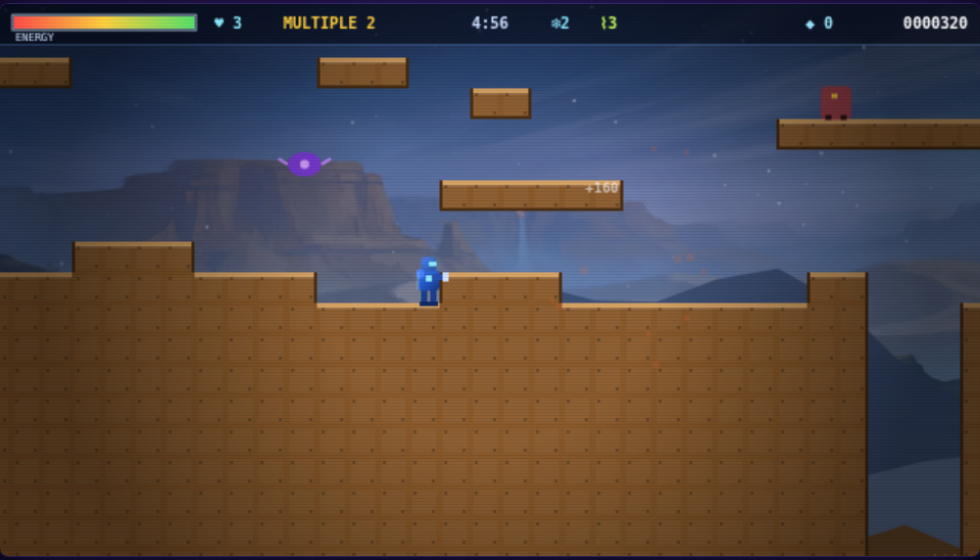
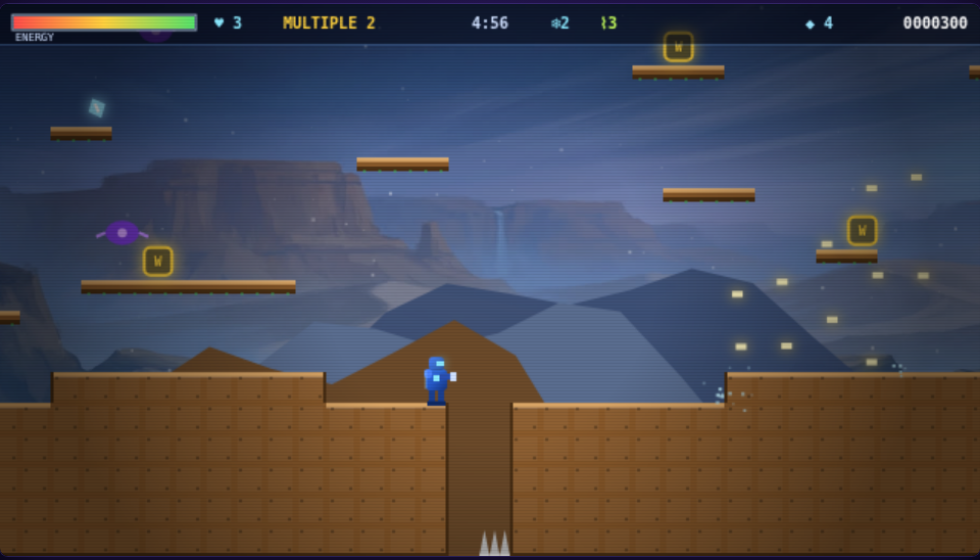
Turrican II v0.2.0: traversable-level generator, one-way platforms, step-up, playthrough bot

diff --git a/2026-07-06/turrican-2/assets/data.js b/2026-07-06/turrican-2/assets/data.js
@@ -165,60 +165,99 @@
     const set = (x, y, v) => { if (x >= 0 && x < cols && y >= 0 && y < rows) tiles[idx(x, y)] = v; };
     const get = (x, y) => (x < 0 || x >= cols || y < 0 || y >= rows) ? T.SOLID : tiles[idx(x, y)];
 
-    // rolling ground height per column
-    let h = g.floor;
-    const groundH = new Array(cols);
-    const pitCols = new Set();
-    // choose pit locations
-    for (let p = 0; p < g.pits; p++) {
-      const start = 12 + Math.floor(rnd() * (cols - 24));
-      const width = 2 + Math.floor(rnd() * 4);
-      for (let w = 0; w < width; w++) pitCols.add(start + w);
-    }
+    // ---- GUARANTEED-TRAVERSABLE terrain --------------------------------
+    // Interior platform worlds get a thin ceiling; we always keep >=6 tiles of
+    // headroom above the ground so the critical path is walkable + jumpable
+    // WITHOUT needing morph (morph is reserved for optional secret routes).
+    const ceilH = (world.type === 'platform' && worldIndex >= 1) ? 1 : 0;
+    for (let x = 0; x < cols; x++) for (let y = 0; y < ceilH; y++) set(x, y, T.SOLID);
+
+    // Keep ground in the lower third so the upper zone is reserved for
+    // floating platforms — they then never pinch the walkable ground path.
+    const maxTop = rows - 2;           // lowest ground (always >=1 tile of floor)
+    const minTop = Math.max(ceilH + 5, rows - 9); // highest the ground may rise
+    const clampTop = (v) => Math.max(minTop, Math.min(maxTop, v));
+
+    // pass 1: ground top as flat runs joined by SINGLE-tile steps only, so every
+    // adjacent column differs by <=1 tile — always jumpable, never a cliff.
+    const groundTop = new Array(cols);
+    let top = clampTop(g.floor);
+    let run = 0;
     for (let x = 0; x < cols; x++) {
-      if (x % 4 === 0) h += Math.round((rnd() - 0.5) * g.roughness);
-      h = Math.max(9, Math.min(rows - 3, h));
-      groundH[x] = h;
-      const isPit = pitCols.has(x) && x > 8 && x < cols - 8;
-      if (!isPit) {
-        for (let y = h; y < rows; y++) set(x, y, T.SOLID);
-      } else {
-        // spikes at the bottom of some pits
-        if (rnd() < 0.5) set(x, rows - 1, T.SPIKE);
+      if (run <= 0) {
+        run = 6 + Math.floor(rnd() * 8);                 // long flat run of 6-13 cols
+        const r = rnd();
+        top = clampTop(top + (r < 0.35 ? -1 : r < 0.7 ? 1 : 0)); // step at most +-1
       }
+      groundTop[x] = top; run--;
+    }
+    // flat safe zones so spawn + exit are always clean, level ground
+    for (let x = 0; x <= 6; x++) groundTop[x] = groundTop[6];
+    for (let x = cols - 8; x < cols; x++) groundTop[x] = groundTop[cols - 9];
+
+    // pass 2: carve jumpable pits (width 2-3) ONLY where both lips are already
+    // level (<=1 tile apart). No height edits -> no manufactured cliffs.
+    // Carve pits ONLY inside genuinely flat stretches: require 3 equal-height
+    // columns of clean approach + landing on each side, so there are never
+    // adjacent tall walls or 1-wide ledges to fall into.
+    const isPit = new Array(cols).fill(false);
+    let placed = 0, guard = 0;
+    while (placed < g.pits && guard++ < g.pits * 30) {
+      const w = 2 + Math.floor(rnd() * 2);               // 2..3 tiles
+      const sx = 16 + Math.floor(rnd() * (cols - 40));
+      const h0 = groundTop[sx - 1];
+      let ok = sx > 10 && sx + w < cols - 10;
+      for (let k = -3; k < w + 3 && ok; k++) {
+        const c = sx + k;
+        if (c < 0 || c >= cols || isPit[c]) { ok = false; break; }
+        if ((k < 0 || k >= w) && groundTop[c] !== h0) ok = false; // lips must be flat & equal
+      }
+      if (!ok) continue;
+      for (let k = 0; k < w; k++) isPit[sx + k] = true;
+      placed++;
     }
 
-    // ceiling in interior worlds
-    if (world.type === 'platform' && worldIndex >= 1) {
-      for (let x = 0; x < cols; x++) {
-        const ch = 1 + (rnd() < 0.3 ? 1 : 0);
-        for (let y = 0; y < ch; y++) set(x, y, T.SOLID);
-      }
+    // build ground tiles
+    for (let x = 0; x < cols; x++) {
+      if (isPit[x]) { if (rnd() < 0.5) set(x, rows - 1, T.SPIKE); continue; }
+      for (let y = groundTop[x]; y < rows; y++) set(x, y, T.SOLID);
     }
 
-    // floating platforms
+    const surfaceTop = (x) => {
+      x = Math.max(0, Math.min(cols - 1, x));
+      return isPit[x] ? rows : groundTop[x];
+    };
+
+    // floating platforms: 1 tall, kept well above the ground path (never block
+    // ground traversal) — they're optional upper routes / gem shelves
+    // one-way floating platforms — stored SEPARATELY (not solid tiles). The
+    // player lands on top but jumps/moves pass through, so they never bonk a
+    // ground jump (which used to drop the player into pits).
     const platforms = [];
     for (let p = 0; p < g.plats; p++) {
       const px = 10 + Math.floor(rnd() * (cols - 20));
-      const py = 5 + Math.floor(rnd() * (rows - 10));
-      const pw = 2 + Math.floor(rnd() * 5);
-      // avoid overwriting the ground column tops
-      let ok = true;
-      for (let w = 0; w < pw; w++) if (py >= groundH[Math.min(cols - 1, px + w)] - 1) ok = false;
-      if (!ok) continue;
-      for (let w = 0; w < pw; w++) set(px + w, py, T.SOLID);
+      const pw = 2 + Math.floor(rnd() * 4);
+      let gTop = rows;
+      for (let w = 0; w < pw; w++) gTop = Math.min(gTop, groundTop[Math.min(cols - 1, px + w)]);
+      const hiLimit = ceilH + 2;
+      const loLimit = gTop - 3;                          // reachable, above the ground
+      if (loLimit <= hiLimit) continue;
+      const py = hiLimit + Math.floor(rnd() * (loLimit - hiLimit + 1));
       platforms.push({ x: px, y: py, w: pw });
     }
 
     // ---- entities ---------------------------------------------------------
     const entities = [];
     const surfaceY = (x) => {
-      for (let y = 0; y < rows; y++) if (get(x, y) === T.SOLID) return y;
-      return rows - 1;
+      for (let y = ceilH; y < rows; y++) if (get(x, y) === T.SOLID) return y;
+      return rows;
     };
     const addOnSurface = (x, type) => {
-      const sy = surfaceY(x);
-      entities.push({ type, tx: x, ty: sy - 1 });
+      let cx = Math.max(1, Math.min(cols - 2, x)), tries = 0;
+      while (isPit[cx] && tries++ < 8) cx = (cx + 1) % cols;
+      const sy = surfaceY(cx);
+      if (sy >= rows) return;
+      entities.push({ type, tx: cx, ty: sy - 1 });
     };
 
     // enemies on platforms + ground
@@ -255,8 +294,15 @@
     for (let p = 0; p < puCount; p++) {
       const x = 16 + Math.floor(rnd() * (cols - 30));
       const kind = powers[Math.floor(rnd() * powers.length)];
-      const sy = surfaceY(x);
-      entities.push({ type: kind, tx: x, ty: sy - 1 });
+      addOnSurface(x, kind);
+    }
+
+    // reward reaching platforms with a gem or weapon orb on top
+    for (const pl of platforms) {
+      if (rnd() < 0.6) {
+        const gx = pl.x + Math.floor(pl.w / 2);
+        entities.push({ type: rnd() < 0.3 ? 'pu_weapon' : 'gem', tx: gx, ty: pl.y - 1 });
+      }
     }
 
     // player start (left) and exit (right)
@@ -270,7 +316,7 @@
     return {
       world: world.id, worldIndex, stageIndex, name: world.name, type: world.type,
       theme: world.theme, palette: world.palette, boss: !!g.boss,
-      cols, rows, tile: TILE, tiles, entities, playerStart, exit,
+      cols, rows, tile: TILE, tiles, platforms, entities, playerStart, exit,
       timeLimit: 300,
     };
   }
@@ -279,6 +325,6 @@
     TILE, VIEW_W, VIEW_H, FPS, DT, PHYS, T, SOLID_TILES,
     WEAPONS, WEAPON_ORDER, ENEMIES, WORLDS,
     mulberry32, buildLevel,
-    VERSION: '0.1.0',
+    VERSION: '0.2.0',
   };
 });

diff --git a/2026-07-06/turrican-2/assets/engine.js b/2026-07-06/turrican-2/assets/engine.js
@@ -319,6 +319,7 @@
 
   function hurtPlayer(s, dmg) {
     const p = s.player;
+    if (s.godMode) return;
     if (p.invuln > 0) return;
     p.energy -= dmg;
     p.invuln = 1.1;
@@ -329,6 +330,7 @@
 
   function killPlayer(s) {
     const p = s.player;
+    if (s.godMode) return;
     if (p.dead) return;
     p.dead = true; p.deathTimer = 1.4; p.lives -= 1;
     emit(s, 'explosion', p.x + p.w / 2, p.y + p.h / 2);
@@ -434,16 +436,41 @@
     if (!input.jump && p.vy < 0) p.vy *= Math.pow(PHYS.jumpCut, dt * 60 > 1 ? 1 : 1); // light cut
     if (input.jumpReleased && p.vy < 0) p.vy *= PHYS.jumpCut;
 
+    // auto step-up: smoothly mount ledges up to ~1 tile without jumping (feel
+    // + reliable traversal). A 2-tile wall stays a real wall (must jump).
+    if (p.onGround && move !== 0 && !p.morph) {
+      const aheadX = move > 0 ? p.x + p.w + 2 : p.x - 2;
+      const footY = p.y + p.h - 3;
+      const ledge = solidAtPx(s.level, aheadX, footY);
+      const oneTall = !solidAtPx(s.level, aheadX, footY - TILE - 2);
+      const headroom = !solidAtPx(s.level, p.x + 2, p.y - TILE - 2) &&
+                       !solidAtPx(s.level, p.x + p.w - 2, p.y - TILE - 2);
+      if (ledge && oneTall && headroom) p.y -= (TILE + 2);
+    }
+
     // gravity
     p.vy += PHYS.gravity * dt;
     p.vy = Math.min(p.vy, PHYS.maxFall);
 
     // integrate + collide
+    const prevBottom = p.y + p.h;
     const info = moveBox(s.level, p, p.vx * dt, p.vy * dt);
     if (info.hitX) p.vx = 0;
     if (info.hitY) { if (info.onGround) p.onGround = true; p.vy = 0; }
     p.onGround = info.onGround || (p.onGround && !info.hitY && p.vy >= 0 && onFloor(s.level, p));
     if (!info.onGround) p.onGround = onFloor(s.level, p);
+
+    // one-way platforms: land on top only while descending; jumps/moves pass
+    // through from below (so they never bonk a jump). Drop through with Down.
+    if (!p.morph && p.vy >= 0 && !input.down && s.level.platforms) {
+      const feet = p.y + p.h;
+      for (const pl of s.level.platforms) {
+        const plx = pl.x * TILE, ply = pl.y * TILE, plw = pl.w * TILE;
+        if (p.x + p.w > plx + 2 && p.x < plx + plw - 2 && prevBottom <= ply + 3 && feet >= ply) {
+          p.y = ply - p.h; p.vy = 0; p.onGround = true; break;
+        }
+      }
+    }
 
     // spikes / fall out
     if (spikeOverlap(s.level, p) && p.invuln <= 0) hurtPlayer(s, 30);

diff --git a/2026-07-06/turrican-2/assets/render.js b/2026-07-06/turrican-2/assets/render.js
@@ -173,6 +173,24 @@
       bx.fillRect(sx, sy + TILE - 2, TILE, 2);
     }
 
+    // ---- one-way platforms -----------------------------------------------
+    function drawPlatforms(cam) {
+      if (!level.platforms) return;
+      for (const pl of level.platforms) {
+        const sx = Math.round(pl.x * TILE - cam.x), sy = Math.round(pl.y * TILE - cam.y);
+        const w = pl.w * TILE;
+        if (sx + w < 0 || sx > VIEW_W) continue;
+        // slim metallic ledge with a lit top edge + support struts
+        bx.fillStyle = pal.blockEdge; bx.fillRect(sx, sy + 3, w, 6);
+        bx.fillStyle = pal.block; bx.fillRect(sx, sy + 2, w, 4);
+        bx.fillStyle = pal.blockTop; bx.fillRect(sx, sy, w, 3);
+        bx.fillStyle = 'rgba(255,255,255,0.18)'; bx.fillRect(sx, sy, w, 1);
+        bx.fillStyle = pal.accent; bx.globalAlpha = 0.5;
+        for (let i = 4; i < w; i += 10) bx.fillRect(sx + i, sy + 8, 2, 2);
+        bx.globalAlpha = 1;
+      }
+    }
+
     // ---- exit -------------------------------------------------------------
     function drawExit(cam) {
       const e = level.exit; const sx = e.x - cam.x, sy = e.y - cam.y;
@@ -445,6 +463,7 @@
 
       drawBackground(cam);
       drawTiles(cam);
+      drawPlatforms(cam);
       drawExit(cam);
       drawPickups(s.pickups, cam);
       drawEnemies(s.enemies, cam, s.freeze);

diff --git a/2026-07-06/turrican-2/index.html b/2026-07-06/turrican-2/index.html
@@ -47,11 +47,11 @@
     </div>
   </div>
 </div>
-<script src="assets/data.js"></script>
-<script src="assets/engine.js"></script>
-<script src="assets/render.js"></script>
-<script src="assets/audio.js"></script>
-<script src="assets/input.js"></script>
-<script src="assets/game.js"></script>
+<script src="assets/data.js?v=0.2.0"></script>
+<script src="assets/engine.js?v=0.2.0"></script>
+<script src="assets/render.js?v=0.2.0"></script>
+<script src="assets/audio.js?v=0.2.0"></script>
+<script src="assets/input.js?v=0.2.0"></script>
+<script src="assets/game.js?v=0.2.0"></script>
 </body>
 </html>